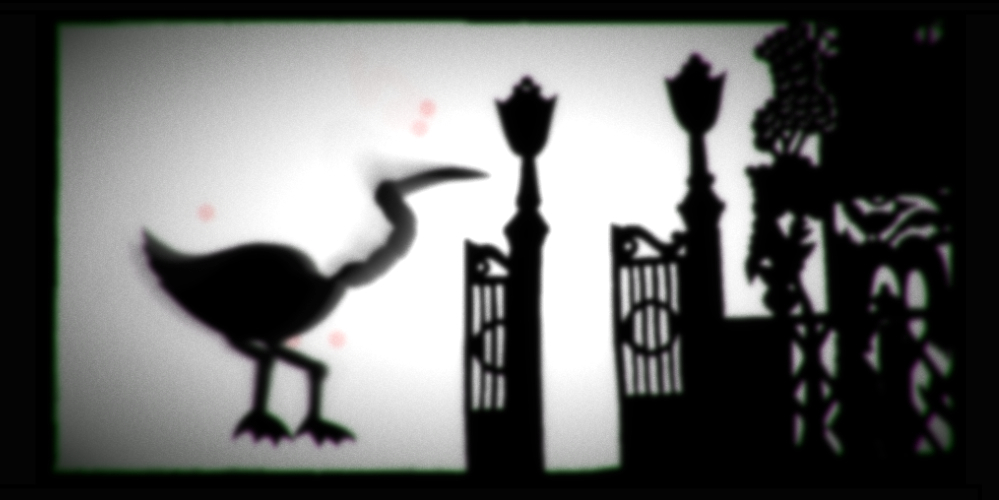
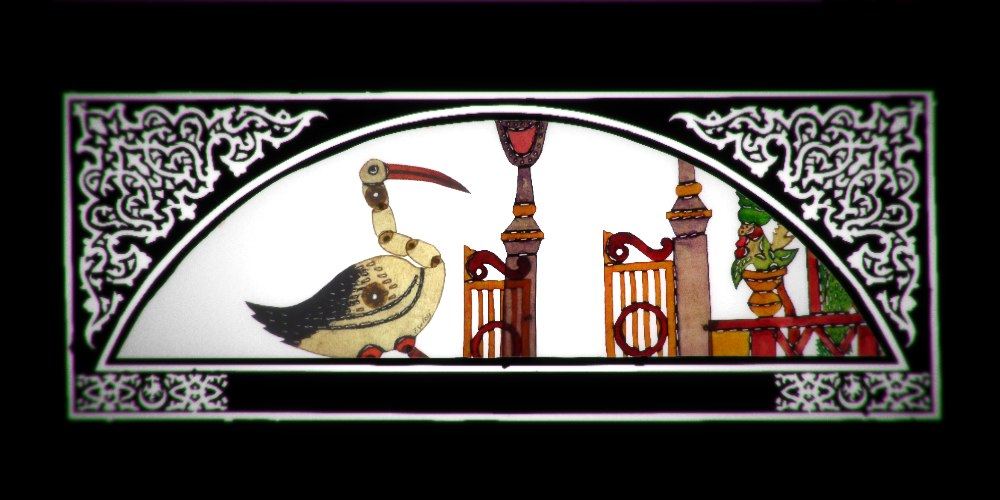
new cover

diff --git a/project_summary.md b/project_summary.md
@@ -1,10 +1,13 @@
-# Project Title
-The ShadowEngine: A Tool for Digital Puppetry and Collaborative Co-Creation
+# The ShadowEngine
+A Tool for Digital Puppetry and Collaborative Co-Creation
 
 ## Authors
 - Ian Grant, [iboy](https://github.com/iboy "iboy on github") on github
 
 ## Description
+
+>"Were it not for shadows, there would be no beauty." Tanizaki, *In Praise of Shadows*.
+
 The ShadowEngine is the latest iteration of a digital puppetry system, enabling real-time character, cinematic and scenographic control over a shadow theatre simulation. The primary aim is to create a performance animation system where live collaborative co-creation of expressive movement and story-making takes place. It can be present in a number of different configurations: as an installation, a performance or a workshop experience.
 ### Kinetic Objects and Expressive Movement
 I am motivated by a fascination with animation: especially interactive, kinetic and expressive performing objects (puppets). Game-engines and creative coding platforms facilitate novel means to explore multiple dimensions of real-time animation, including:  soft and rigid body physics, spring systems, collisions, blended animation, the use of physical controllers and other sensors to create virtual and physical movement.
@@ -76,9 +79,9 @@ The code below sets the default state of a multi touch controller interface (lik
 
 TODO
 Assets; OSC.net; Unity OSC;
-## Images & Videos
+## Images & Videos ##
+
+
 NOTE: For additional images you can either use a relative link to an image on this repo or an absolute link to an externally hosted image.
 
 ![Example Image](project_images/cover.jpg?raw=true "Example Image")
-
-https://www.youtube.com/watch?v=30yGOxJJ2PQ
